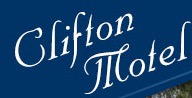
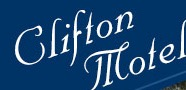
Update concepts 2026-10-19 07:52

diff --git a/clifton-motel-albury/index.html b/clifton-motel-albury/index.html
@@ -40,11 +40,12 @@ nav.main a:hover{color:var(--red);text-decoration:underline;text-underline-offse
 .hero h1{font-size:clamp(44px,9.4vw,118px);line-height:.93;font-variation-settings:"wdth" 80;font-weight:800;letter-spacing:-.025em;max-width:11.5ch}
 .hero h1 .inset{display:inline-block;vertical-align:-.08em;width:2.1em;height:.78em;margin:0 .06em;overflow:hidden;border:3px solid var(--ink)}
 .hero h1 .inset img{width:100%;height:100%;object-fit:cover}
-.hero-row{display:grid;gap:28px;margin-top:34px;padding-bottom:40px}
+.hero-grid{display:grid;gap:30px;padding-bottom:40px}
+.hero-row{display:grid;gap:26px}
 .hero-row p{margin:0;font-size:19px;max-width:38ch;color:var(--ink)}
+.hero-row .pic img{border:1px solid var(--rule);width:310px}
 .hero-row .pic figcaption{font-size:13px;color:var(--mute);margin-top:6px}
-.hero-row .pic img{border:1px solid var(--rule)}
-@media(min-width:900px){.hero{padding-top:64px}.hero-row{grid-template-columns:5fr 7fr;align-items:end}}
+@media(min-width:900px){.hero{padding-top:56px}.hero h1{font-size:clamp(64px,7.4vw,104px)}.hero-grid{grid-template-columns:1fr 340px;gap:56px;align-items:end;padding-bottom:44px}.hero-row{gap:22px}}
 
 /* booking bar */
 .bar{border-top:2px solid var(--ink);border-bottom:2px solid var(--ink);display:grid;grid-template-columns:1fr 1fr}
@@ -140,7 +141,7 @@ footer .mark{margin:0;padding:12px 14px;display:inline-flex}
 
 <header class="top">
   <div class="wrap">
-    <a class="mark" href="#" aria-label="Clifton Motel"><img src="wordmark.jpg" alt="Clifton Motel" width="192" height="98"></a>
+    <a class="mark" href="#" aria-label="Clifton Motel"><img src="wordmark.jpg" alt="Clifton Motel" width="186" height="90"></a>
     <nav class="main" aria-label="Main">
       <a href="#rooms">Rooms</a>
       <a href="#in-the-room">In the room</a>
@@ -157,7 +158,7 @@ footer .mark{margin:0;padding:12px 14px;display:inline-flex}
 
 <main>
 <section class="hero" aria-label="Clifton Motel">
-  <div class="wrap">
+  <div class="wrap hero-grid">
     <h1>Across the road <span class="inset"><img src="street.jpg" alt="The Clifton Motel sign on Smollett Street with Albury railway station behind it" width="300" height="185"></span> from Albury station.</h1>
     <div class="hero-row">
       <p>Clifton Motel is a quiet, 11-room motel at 424&nbsp;Smollett Street in Albury's CBD. Shops, restaurants and the cinemas are close by, Main Street is one block away, and the Hume Highway is a couple of minutes' drive.</p>

diff --git a/100th-st-corner-cafe/index.html b/100th-st-corner-cafe/index.html
@@ -82,8 +82,7 @@ nav a:hover{color:var(--red)}
 .cat ul{list-style:none}
 .cat li{display:grid;grid-template-columns:auto 1fr auto;align-items:baseline;gap:0 8px;padding:7px 0;border-bottom:1px dotted #d8cfc8}
 .cat li .n{font-weight:700;color:var(--ink)}
-.cat li i{border-bottom:1px dotted #c4b8af;transform:translateY(-4px);font-style:normal}
-.cat li i{border:0}
+.cat li i{font-style:normal}
 .cat li b{color:var(--red);font-weight:700;font-variant-numeric:tabular-nums;white-space:nowrap}
 .cat li small{grid-column:1/-1;font-size:15px;color:var(--mute);line-height:1.4;margin-top:1px}
 .part{font-family:"Bricolage Grotesque";font-weight:800;font-size:15px;color:var(--red);text-transform:uppercase;letter-spacing:.02em;margin:6px 0 16px;column-span:all}
@@ -165,7 +164,7 @@ footer a:hover{color:#ff8a8f}
     <div class="pile" aria-hidden="true">
       <figure class="snap s1"><img src="staff.jpg" alt="" width="331" height="227"><figcaption>Behind the counter</figcaption></figure>
       <figure class="snap s2"><img src="breakfast.jpg" alt="" width="387" height="258"><figcaption>Eggs, hashbrowns and toast</figcaption></figure>
-      <figure class="snap s3"><img src="counter.jpg" alt="" width="227" height="250"><figcaption>Fresh flowers by the door</figcaption></figure>
+      <figure class="snap s3"><img src="counter.jpg" alt="" width="227" height="250"><figcaption>Inside the cafe</figcaption></figure>
     </div>
   </section>
 
@@ -403,7 +402,7 @@ footer a:hover{color:#ff8a8f}
     <div class="wrap agrid">
       <div>
         <h2>The cafe</h2>
-        <p>100th St. Corner Cafe is a casual place to sit down for breakfast or lunch. Most of the people at our tables live in Urbandale or close by, and a lot of them we know by name.</p>
+        <p>100th St. Corner Cafe is a casual place to sit down for breakfast or lunch. We serve Urbandale and the surrounding areas, and we keep it friendly and warm.</p>
         <p>Pull up a booth, have a cup of coffee with free refills, and take your time.</p>
         <p class="party">Coming with a group? We take reservations for weekday parties of more than 10. Call <a href="tel:+15153312343">(515) 331-2343</a>.</p>
       </div>

diff --git a/bhavana-ladies-saloon/index.html b/bhavana-ladies-saloon/index.html
@@ -219,7 +219,7 @@ footer{background:var(--plum-dk);color:#f1dfe9;padding:48px 0 70px;font-size:15p
         </div>
         <div class="flyer">
           <figure>
-            <img src="offers-flyer.jpg" width="565" height="800" alt="Bhavana Ladies Saloon offers paper with five packages, phone numbers and a map of ME-12" loading="lazy">
+            <img src="offers-flyer.jpg" width="565" height="800" alt="Bhavana Ladies Saloon offers paper with five packages, phone numbers and a map of ME-12">
             <figcaption><b>Bring the offers paper with you</b> and get 10% off our other services.</figcaption>
           </figure>
         </div>
@@ -304,7 +304,7 @@ footer{background:var(--plum-dk);color:#f1dfe9;padding:48px 0 70px;font-size:15p
           <p>Redrawn from the map on our offers paper. Not to scale.</p>
         </div>
         <div class="gmap">
-          <iframe title="Bhavana Ladies Saloon on Google Maps" loading="lazy" referrerpolicy="no-referrer-when-downgrade" src="https://maps.google.com/maps?q=24.321977,54.534953&z=16&output=embed"></iframe>
+          <iframe title="Bhavana Ladies Saloon on Google Maps" referrerpolicy="no-referrer-when-downgrade" src="https://maps.google.com/maps?q=24.321977,54.534953&z=16&output=embed"></iframe>
         </div>
       </div>
     </div>
